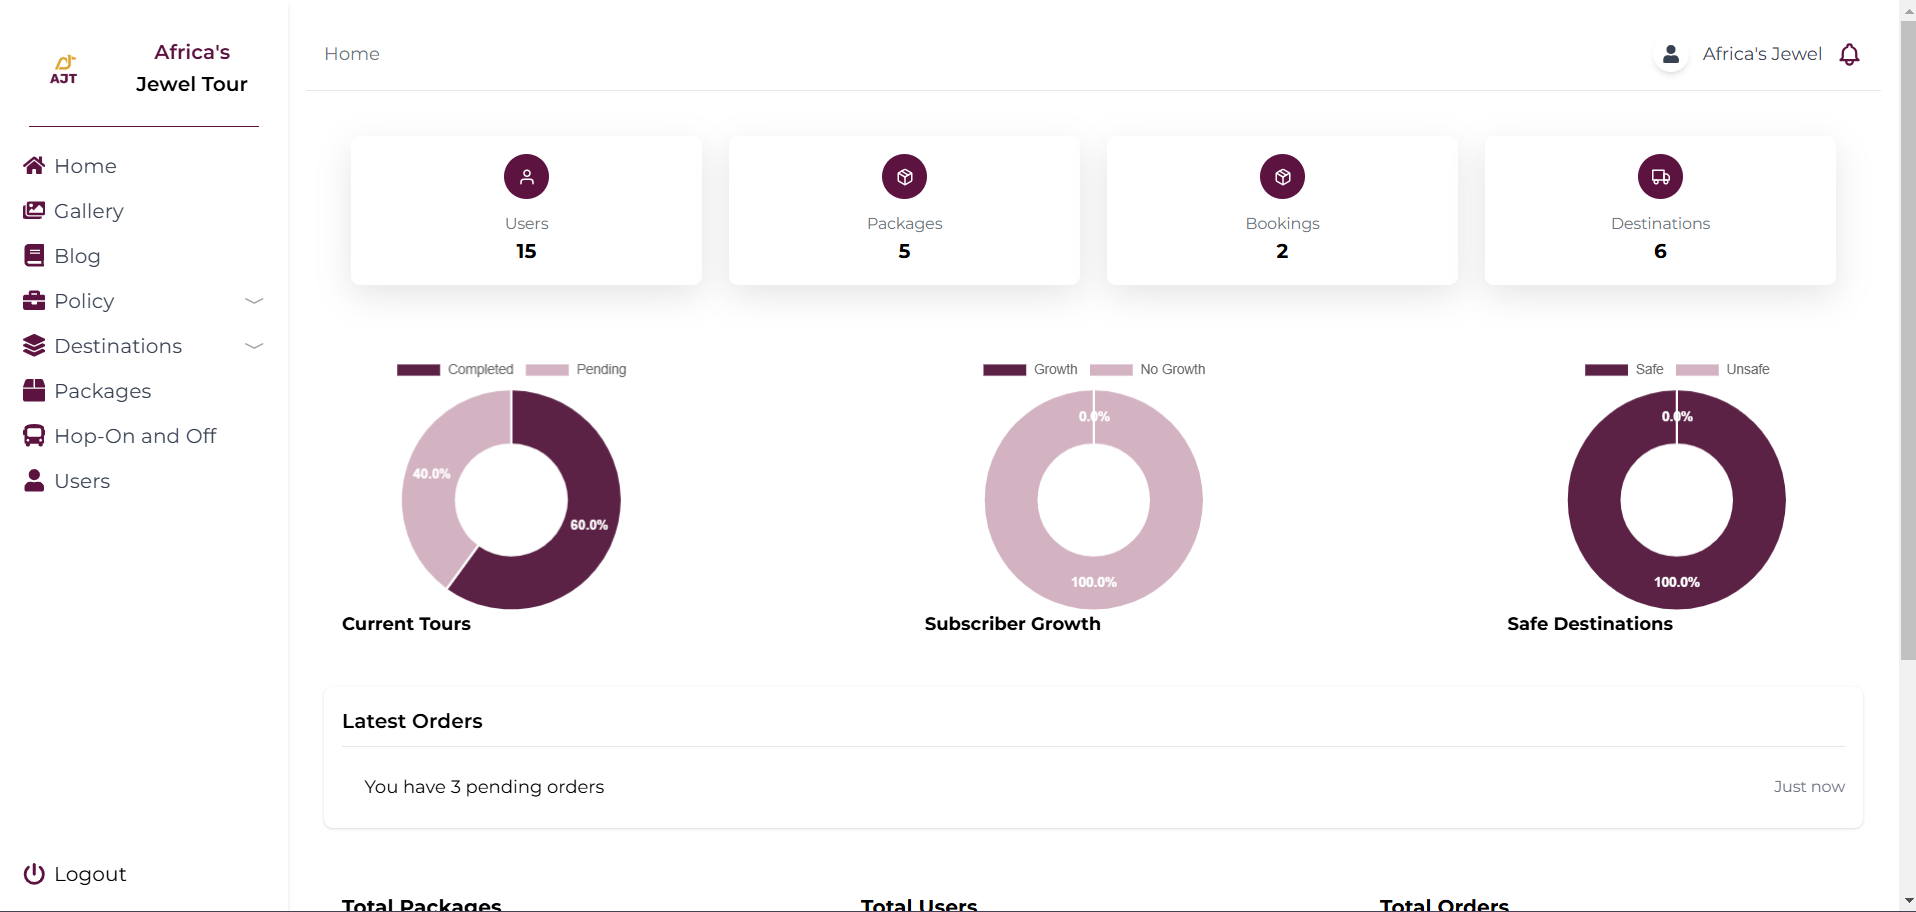
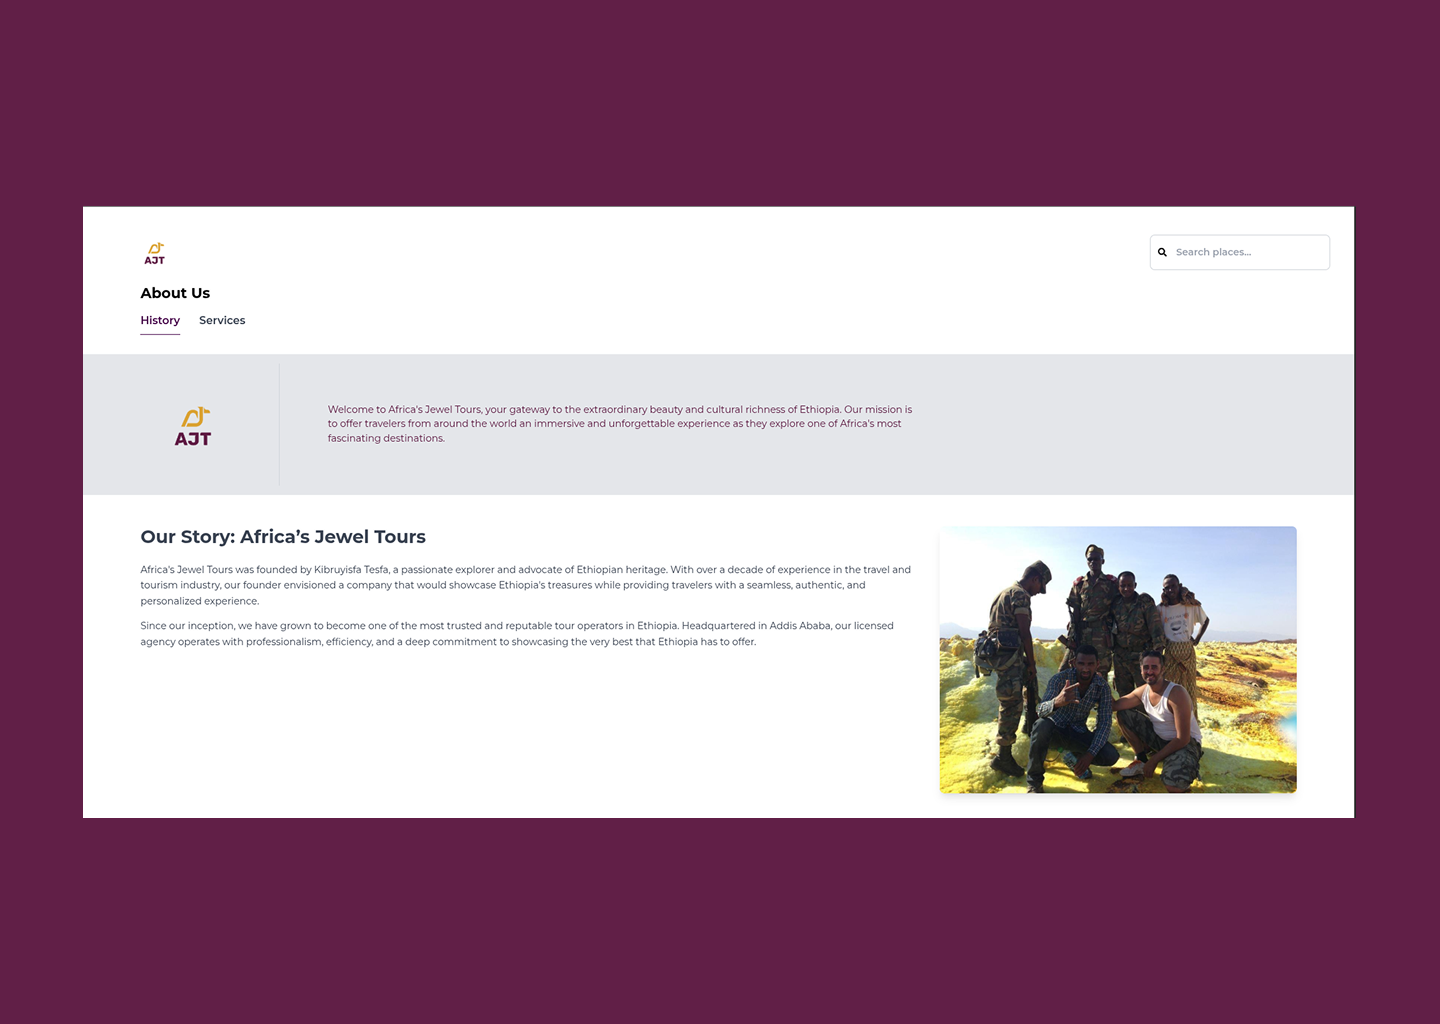
fix

diff --git a/src/Components/projects.js b/src/Components/projects.js
@@ -11,7 +11,7 @@ import ethio from "../Assets/ethio.png";
 import hire from "../Assets/hire.png";
 import rapid from "../Assets/rapid.png";
 import hamnel from "../Assets/hamnel.png";
-
+import ares from "../Assets/ares.png";
 const projects = [
   {
     role: "Frontend Developer",
@@ -67,6 +67,18 @@ const projects = [
   },
   {
     role: "Frontend Developer",
+    company: "Sidekick Studios",
+    date: "Feb 2026 – Present",
+    description:
+      "Developed Ares, a fully customizable AI-powered dual dashboard productivity platform for personal and business management.",
+    imageSrc: ares,
+    link: "https://ares-rosy.vercel.app/",
+    name: "Ares",
+    content:
+      "A fully customizable AI-powered dual dashboard productivity platform for personal and business management.",
+  },
+  {
+    role: "Frontend Developer",
     company: "Awura",
     date: "Aug 2022 – Aug 2024",
     description:
@@ -85,7 +97,7 @@ const projects = [
     description:
       "Worked on various UI/UX projects with a focus on usability and design aesthetics.",
     imageSrc: admin,
-    link: "https://portal.africasjeweltour.com/ ",
+    link: "https://africasjeweltour.com/ ",
     name: "Africa Jewel's Tour Admin Page",
     content:
       "The AJT Admin Portal is a management dashboard for handling tour packages, destinations, blogs, and user interactions efficiently.",
@@ -214,14 +226,14 @@ const ProjectsPage = () => {
               href={projects[activeProject].link}
               target="_blank"
               rel="noopener noreferrer"
-              className="block relative w-full mb-6"
+              className="relative w-full mb-6"
             >
               <AnimatePresence mode="wait">
                 <motion.img
                   key={activeProject}
                   src={projects[activeProject].imageSrc}
                   alt={"Bethelhem Habtamu"}
-                  className="w-full max-w-full md:max-w-3xl h-[250px] md:h-[400px] object-fit rounded-lg"
+                  className="w-full max-w-full md:max-w-3xl max-h-[300px] md:max-h-[500px] object-contain rounded-lg"
                   initial={{ y: 10, opacity: 0 }}
                   animate={{ y: 0, opacity: 1 }}
                   exit={{ y: -10, opacity: 0 }}
